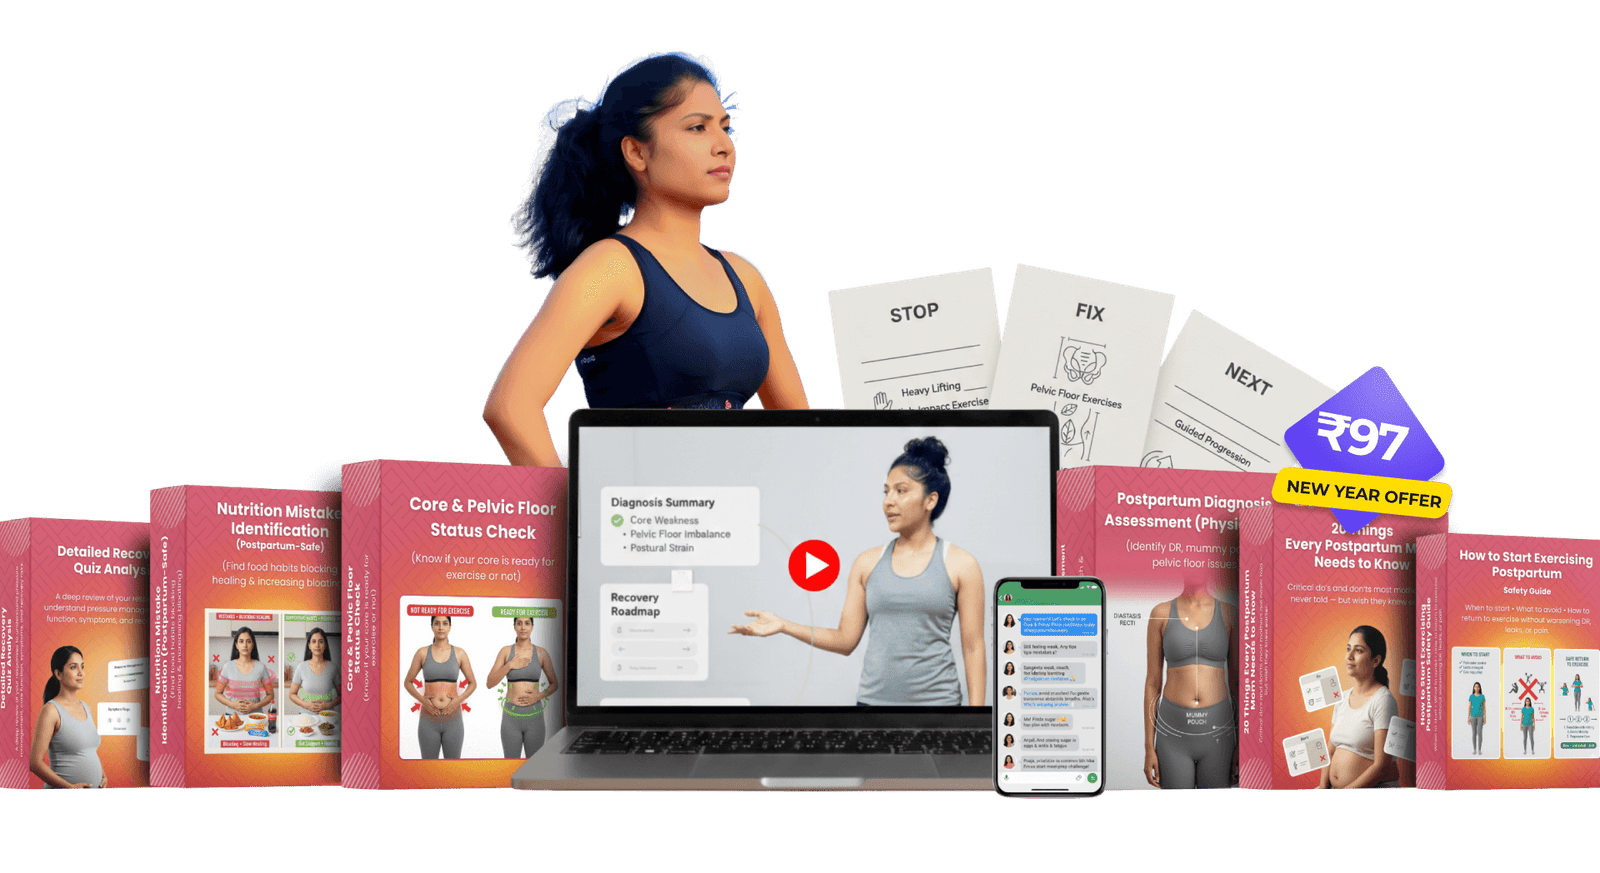
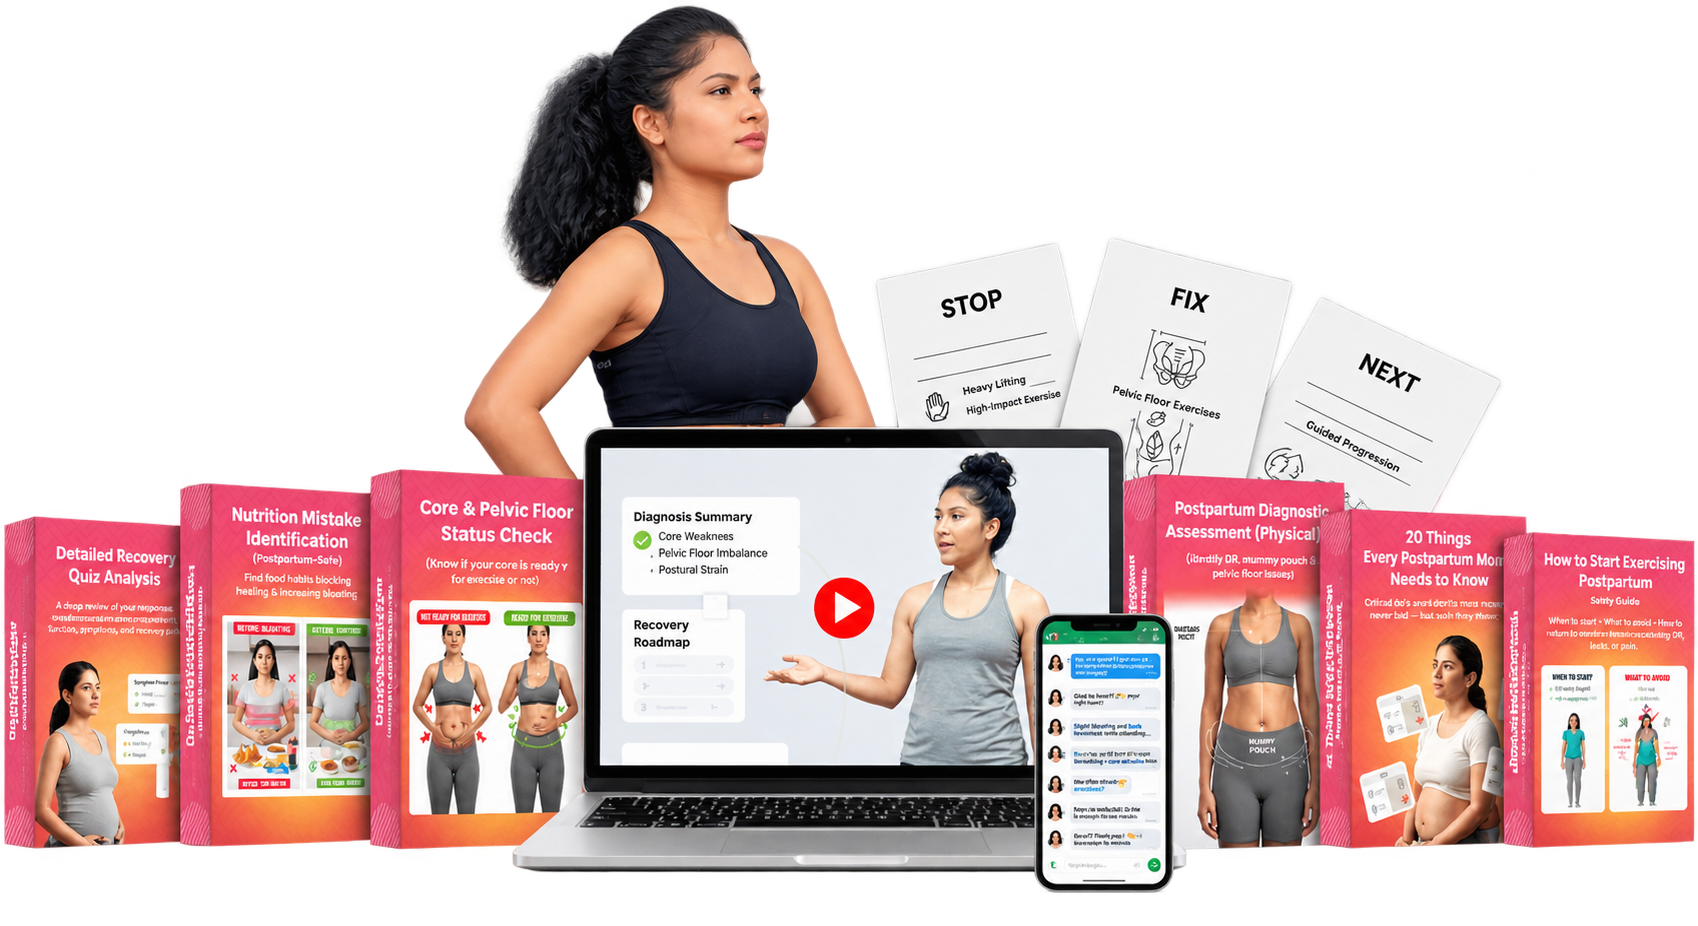
Remove paid-funnel discount claims from the landing page
Leftovers from the paid fork that contradicted a free offer:

- Hero offer card: dropped the rotated "Today Only / 70% OFF" ribbon
  sitting over the product mockup. It was a rendered element, not part
  of the image asset.
- Final CTA strip: "70% OFF Today Only" pill sat directly above a
  headline reading "100% Free" — replaced with the batch date.
- Same strip: "100% Money-Back Guarantee" -> "100% Free - No card
  required". Nothing is charged, so there is nothing to refund; this is
  also why /refund-policy was dropped in the fork.
- Swapped in a mockup image without the baked-in discount badge.

diff --git a/app/_landing/below-fold.tsx b/app/_landing/below-fold.tsx
@@ -1711,7 +1711,7 @@ function Recap() {
   );
 }
 
-// ── 20. Final 70% off strip ──────────────────────────────────────────────────
+// ── 20. Final CTA strip ──────────────────────────────────────────────────────
 function FinalStrip() {
   return (
     <section data-final-strip className="relative isolate overflow-hidden py-16 md:py-20" style={{ background: C.black }}>
@@ -1735,7 +1735,7 @@ function FinalStrip() {
             style={{ background: `linear-gradient(135deg, ${C.brand}, ${C.deep})` }}
           >
             <Tag weight="fill" className="h-3.5 w-3.5" />
-            70% OFF Today Only
+            Limited Seats · Starts {WEBINAR_DATE}
           </m.div>
           <m.h2 variants={fadeUp} className="mt-5 font-heading text-[28px] font-extrabold leading-tight text-white sm:text-[42px]">
             Join the 5-Day Postpartum<br className="hidden sm:block" /> Recovery Challenge — 100% Free.
@@ -1749,7 +1749,7 @@ function FinalStrip() {
               Get Instant Access
               <ArrowRight weight="bold" className="h-4 w-4" />
             </Link>
-            <p className="mt-3 text-[12px] text-white/70">100% Money-Back Guarantee</p>
+            <p className="mt-3 text-[12px] text-white/70">100% Free · No card required</p>
           </m.div>
         </m.div>
       </div>

diff --git a/app/_landing/hero.tsx b/app/_landing/hero.tsx
@@ -223,15 +223,6 @@ function HeroOfferCard() {
         className="relative overflow-hidden rounded-[28px] shadow-[0_30px_80px_-30px_rgba(199,58,87,0.35)]"
         style={{ background: 'white', border: `1px solid ${C.line}` }}
       >
-        {/* Discount ribbon */}
-        <div
-          className="absolute top-5 right-5 z-10 rotate-6 rounded-2xl px-3 py-2 text-center text-white shadow-lg"
-          style={{ background: `linear-gradient(135deg, ${C.brand}, ${C.deep})` }}
-        >
-          <div className="text-[10px] font-bold uppercase tracking-[0.18em] opacity-80">Today Only</div>
-          <div className="font-heading text-2xl font-extrabold leading-none">70% OFF</div>
-        </div>
-
         {/* Product mockup graphic (laptop + phone composition) */}
         <div className="relative px-6 pt-7 pb-4" style={{ background: `linear-gradient(180deg, ${C.whisper}, white)` }}>
           <ProductMockup />
